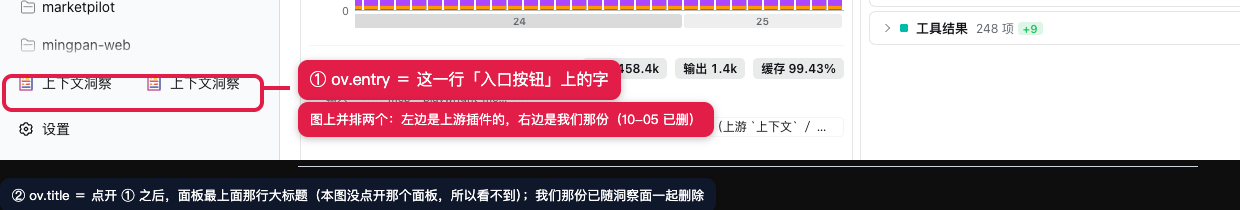
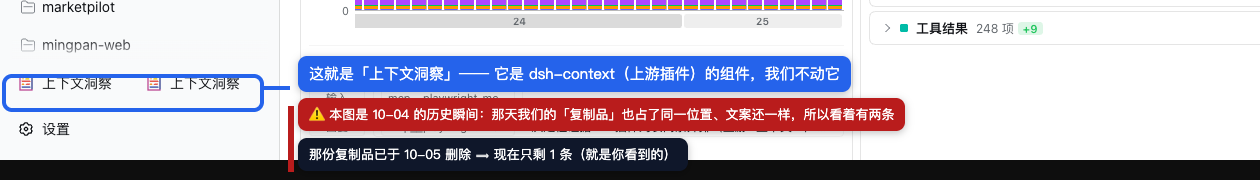
docs+img: 按用户二次指正收口「上下文洞察」话题 —— 那是 dsh-context 的组件，我们不动；ov.* 残留改为"保留不清理"
用户 2026-10-06 二次指正：「这个上下文洞察不是我们的组件内容，我已经强调过了，是 dsh-context 的。
不要动其他插件的东西。现在我看只有 1 个上下文洞察，没有 2 个。」—— 核实后确认用户对，并纠正我两处：

1) 位置与归属：`上下文洞察` 是**上游插件 dsh-context 自己注册的入口**（左侧栏最底部那一行）。
   我们的仓库里只有 M1 整仓复制来的**副本**；副本的那份入口已于 10-05 删除（`773aea6`，类名 `redline-ov-entry`，现全仓 0 个）。
   所以**现在只剩 1 个**（用户看到的就是对的）；10-04 那张存档截图之所以有两条，是因为那天副本也占了同一位置、
   文案还是继承来的 `上下文洞察`。**上游那个包我们一行都没动过**（只做过只读核对）。
2) 标注图更正（`docs/screenshots/ov-position-annotated.png`）：改成"这就是「上下文洞察」—— 它是 dsh-context 的组件，
   我们不动它 / ⚠ 本图是 10-04 历史瞬间：我们的复制品也占了同一位置、文案还一样 / 那份复制品已于 10-05 删除 ⟹ 现在只剩 1 条"。

3) `docs/10` M3-34 的注记按二次指正收口：**这条不再需要用户拍板** ——
   `ov.entry`/`ov.title` 不是功能，而是复制带进来的**一整坨 `ov.*` 文案（约 60 键 × 中英）**里的两条，
   随洞察面删除一起失效、现无任何界面引用；**处置 = 保留、不清理**（清理属副本残留，收益极低；
   且护栏面 5 的 `entryKeys` 仍要求这三键存在并锁其值）。并写明"上游包一行都不动"的界限。

`node scripts/check-docs.mjs` exit 0；本提交只动文档与标注图，未改任何代码。

diff --git a/docs/10-execution-checklist.md b/docs/10-execution-checklist.md
@@ -278,7 +278,7 @@
 | M3-30 | **不可编辑态 → 人话原因**（R2.3 / R4.7 汇总表的界面落点）：助手消息 / 被遮蔽原文 / 被压缩埋掉 / 系统提示词 / 工具定义 / 会话不在本进程 / 轮次未闭合 —— 每一态给出"原因 + 我该怎么办"，**能力为 false 时入口不出现**（不是禁用了还能点） | DONE | → **每一态都有人话**：助手消息 → `助手消息改不了`；被接替/被压缩 → 一句原因、零按钮；宿主保护的两类 → 不渲染动作区；**轮次未闭合 / 会话不在本进程 → 编辑器里写明句子并禁用 `保存`**（与 demo 的 `blocked`＝「轮次未闭合 或 不在本进程」逐字一致），且**主机侧同样拒绝**（`redline/turn-open` / `redline/not-live`）—— 界面禁用是体验，主机拒绝是安全网。护栏：`tests/edit/turn-state.spec.ts`（9 条纯函数）、`tests/channel/redline-ops.spec.ts`（`turnState` op + 两条拒绝 + "同一保存只因轮次闭合就通过"）、`tests/client-ui/redline-edit.spec.ts`（两种态各断言句子在 + `保存` 禁用 + 点了也不到存储）。**4 个变异反向验证**：边界判定写死已闭合 / 主机不拒 turn-open / 主机不拒 not-live / 界面不传 blocked —— 全部变红。⚠ 反向验证**抓到我自己一条空壳护栏**：`not-live` 那条一开始是"读不到也报 not-live"，把 liveness 判断删掉它照样绿 → 已改成用"**行可读但本进程不 host**"的会话隔离该判断。⚠ 已知简化：fold 用同一个 `gone` 同时表示"被改写过"与"被压缩埋掉"，所以两族说法还没分开（要分开得让 fold 暴露原因，不猜） ✅ **真机补证（2026-10-04）**：展开「助手消息」（该轮 291 项）→ **298 条动作条，带按钮的 0 条**，条上文案实测为 `#3417 助手消息改不了` ⟹ "改不了的行给一句人话、且点不到任何按钮"在真机上成立（R2.3 / R4.7） |
 | M3-31 | 【作废】~~**帮助入口**（R7.1 + D6 连带要求）：从不可用态与说明处可跳到「这一态是什么意思 / 我该怎么办」汇总表~~ —— **`docs/03` R7.1 自己写着**："当前 demo **没有**单独的总体「帮助」按钮或「指给我看」入口"，它的帮助形态是右上角**讲解模式**（给可交互元素编号 → 点开右侧讲解抽屉）。⟹ 按"demo 为准"，**不做**一个 demo 没有的总体帮助入口（那是新增交互）。**内容侧已经到位**：`docs/12-user-guide.md`（本轮写好）就是 R4.7 那张"这一态是什么意思 / 我该怎么办"的权威表，而界面里每个 `?` 与不可编辑行的 `title` 已经承担了就地说明。**若你要一个能从界面跳到 `docs/12` 的入口，那是新增交互，说一声我再做** | DONE | → 作废依据：`docs/03` R7.1 原文 + `docs/12` 已交付 |
 | M3-33 | **客户端通道**（M3 的前置）：`src/client/redlineChannel.ts` —— `node.read` / `draft.list` / `draft.update` / `draft.drop` 四个调用的浏览器侧封装；URL 必须 import `REDLINE_CHANNEL_ROUTE`（不许手写），**失败一律回稳定码、绝不抛**（编辑器才能"保留输入 + 显示原因"） | DONE | → 先红后绿：`tests/client-logic/redline-channel.spec.ts`（新 lane）8 条，写测试时模块不存在 → 全红；实现后 8/8。**顺带修掉一个真实隐患**：`src/client/{timelineSource,overview,balance}.ts` 原本**各手写一份** `/api/dsh-context-redline/*` 字面量（上游的设计）→ 常量一改就静默 404，已改为 import `src/shared/redline-route.ts` 的常量；`namespace-contract` 新增一条"客户端里一个 `/api` 字面量都没有"（反向验证：塞回一个字面量 → 立刻红，即使那个字面量是**对的**也红）`src/client/redlineChannel.ts`、`src/client/{timelineSource,overview,balance}.ts`、`tests/client-logic/**`、`vitest.config.ts`、`scripts/namespace-contract.mjs` |
-| M3-34 | **入口命名不与上游重名**（用户 2026-10-04：「在对话轨迹、上下文那里，我们不应该跟之前的插件重复，我们应该叫上下文批改」） ⚠ **2026-10-06 复核（更正我上一条说法）**：`ov.entry` / `ov.title` 目前**无人读**（侧栏入口已按 M3-35 删掉），但**不能当"死键"直接删** —— `scripts/namespace-contract.mjs` 面 5 的 `entryKeys = ['tab', 'ov.entry', 'ov.title']` **要求这三个键必须存在**，并锁它们的值不许等于上游裸词、必须带产品名；删键会让那条门禁红。⟹ 这是个**小决定**：(a) **保留**（护栏继续锁"入口文案带产品名"，将来再接入口时文案已就位）；(b) **删键 + 把护栏 `entryKeys` 收窄到 `['tab']`**（少两处死字符串，代价是失去"入口回来时必须带产品名"的保护）。| DONE | → 改的是**一个共用标签**：`src/client/i18n.ts` 的 `tab` 键（会话页签 / 右侧栏胶囊 / 面板标题三处都读它）→ zh `上下文批改`、en `Context Redline`；`locale/{zh,en}.json` 的展示名与描述同步（描述里**不写**上游包名，因为面 5 禁止）。**新增门禁**：`namespace-contract` 面 5 —— 入口标签**不许等于上游那两个裸词**，且必须带我们的产品名；**反向验证**：把标签改回 `上下文` → 立刻红（原文：`入口标签 "上下文" 与上游同名`）。连带：上游 `client` lane 里 8 处断言锁的是旧标签（`index`/`icon`/`sidebar`/`contextJump`）→ 一并更新为新标签；`tsdown` 已重打，**硬刷新即可看到** **2026-10-05 扩到全部"入口标签"**：除了会话页签，**侧栏入口按钮**（`ov.entry`）、**概览面板标题**（`ov.title`）与**设置页里那个开关的字段名**（`settings.insightsEntry`）原来都还叫 `上下文洞察` / `Context Insights`（继承上游、demo 里"洞察"出现 0 次 ⟹ 正是用户说的那种重名残留），已统一改为 **`上下文批改 · 洞察` / `Context Redline · Insights`**（设置字段名 → `上下文批改 · 洞察入口`）。**护栏扩到 4 个入口标签键**（`tab` / `ov.entry` / `ov.title` / `settings.insightsEntry`）：都必须带产品名，且不许等于上游裸词；**反向验证**：把 `ov.entry` 改回 `上下文洞察` → 立刻红。连带更新上游 3 个 spec 里 5 处锁旧标签的断言；`tsdown` 已重打 ✅ **真机复核（2026-10-05，未重启，仅新开一次页面加载）**：侧栏入口的 `.redline-ov-entry-label` 实测 `上下文批改 · 洞察`（`aria-label` 同值 ⟹ 无障碍名也对）；设置页里 `上下文批改 · 洞察入口` 在位、**旧的 `上下文洞察入口` 已完全消失**（同页还可见 `上下文批改 · 洞察` 与 `趋势图 · 默认粒度`） |
+| M3-34 | **入口命名不与上游重名**（用户 2026-10-04：「在对话轨迹、上下文那里，我们不应该跟之前的插件重复，我们应该叫上下文批改」） ⚠ **2026-10-06 结论（用户二次指正后收口）**：**这条不再需要用户拍板** —— `ov.entry` / `ov.title` 不是我们的功能，而是 **M1 整仓复制上游时带进来的一整坨 `ov.*` 文案（约 60 键 × 中英）** 里的两条；那坨文案随「洞察面」删除（`19c47c2` / `5a01be9` / `586f681` / `773aea6`）一起失效，现在**没有任何界面引用**。**处置：保留、不清理**（清它属于"副本残留清理"，收益极低；且 `scripts/namespace-contract.mjs` 面 5 的 `entryKeys = ['tab', 'ov.entry', 'ov.title']` 还要求这三键存在并锁其值）。**界限（用户两次强调）**：`上下文洞察` 是 **dsh-context（上游插件）自己的组件**，本仓库只有当年复制的副本；**上游那个包我们一行都不动**（历史上只做过只读核对）。真机上现在左侧栏底部只剩它那一个入口 ✓| DONE | → 改的是**一个共用标签**：`src/client/i18n.ts` 的 `tab` 键（会话页签 / 右侧栏胶囊 / 面板标题三处都读它）→ zh `上下文批改`、en `Context Redline`；`locale/{zh,en}.json` 的展示名与描述同步（描述里**不写**上游包名，因为面 5 禁止）。**新增门禁**：`namespace-contract` 面 5 —— 入口标签**不许等于上游那两个裸词**，且必须带我们的产品名；**反向验证**：把标签改回 `上下文` → 立刻红（原文：`入口标签 "上下文" 与上游同名`）。连带：上游 `client` lane 里 8 处断言锁的是旧标签（`index`/`icon`/`sidebar`/`contextJump`）→ 一并更新为新标签；`tsdown` 已重打，**硬刷新即可看到** **2026-10-05 扩到全部"入口标签"**：除了会话页签，**侧栏入口按钮**（`ov.entry`）、**概览面板标题**（`ov.title`）与**设置页里那个开关的字段名**（`settings.insightsEntry`）原来都还叫 `上下文洞察` / `Context Insights`（继承上游、demo 里"洞察"出现 0 次 ⟹ 正是用户说的那种重名残留），已统一改为 **`上下文批改 · 洞察` / `Context Redline · Insights`**（设置字段名 → `上下文批改 · 洞察入口`）。**护栏扩到 4 个入口标签键**（`tab` / `ov.entry` / `ov.title` / `settings.insightsEntry`）：都必须带产品名，且不许等于上游裸词；**反向验证**：把 `ov.entry` 改回 `上下文洞察` → 立刻红。连带更新上游 3 个 spec 里 5 处锁旧标签的断言；`tsdown` 已重打 ✅ **真机复核（2026-10-05，未重启，仅新开一次页面加载）**：侧栏入口的 `.redline-ov-entry-label` 实测 `上下文批改 · 洞察`（`aria-label` 同值 ⟹ 无障碍名也对）；设置页里 `上下文批改 · 洞察入口` 在位、**旧的 `上下文洞察入口` 已完全消失**（同页还可见 `上下文批改 · 洞察` 与 `趋势图 · 默认粒度`） |
 | M3-35 | **去掉左侧抽屉底部的入口**（用户 2026-10-05：「左侧抽屉的底部，我们不需要上下文批改的这个提示。可以去掉」） | DONE | → 去掉的是 `src/client/index.ts` 里 `sidebar.footer.action` 座位的注册（那枚 chip 就贴在左侧抽屉的 Settings 上方）。**真机复核**：`.redline-ov-entry-label` 与 `button.redline-ov-entry` **各 0 个**；左侧抽屉底部现在只剩 `… / 未分组 / 上下文洞察 / 设置`（那个 `上下文洞察` 是**上游插件自己的**，不是我们的）；会话页签 `对话 / 轨迹 / 上下文 / 上下文批改` 与面板照常工作（357 个卡片节点、统计读数在）。连带更新 `tests/client/index.spec.ts` 两条（原来钉的是"注册了底部入口"，现在钉"**不再注册**"与"overlay 仍在但默认关着"）；`tsdown` 已重打（`sidebar.footer.action` 在包里计数为 0）。⚠ **一条如实记录的遗留**：入口去掉后，**那个洞察 overlay 就没人能打开了**（今天它不可达）；`insightsEntry`（显示/隐藏）那个设置开关与 schema 字段也暂时留着 —— 两者都等一个决定：**这个跨会话洞察面板还要不要？** 要 → 给它接一个新的打开方式；不要 → 连 `overviewPanel` / `overviewStore` / `insightsEntry` 与 `.redline-ov-entry*` 的 CSS 一起删掉（我没擅自删，因为"要不要这个面板"是产品决定） ✅ **收尾完成（2026-10-05）**：`insightsEntry` 设置项**已从 6 个源文件与门禁里删净** —— `shared/types`（类型与字段）· 宿主 `settings`（schema）· 宿主 `config`（volatile 字段与导入）· 客户端 `settings`（接口/面/初值/同步/退化分支）· `settingsCard`（那一行 PrefRow）· `i18n`（两语言各 3 个键）· `namespace-contract` 的入口标签键表（4 → **3**）。测试按"**保留覆盖、改指等价载体**"处理：`settings.spec` 的三条（乐观回显 / 被拒回滚 / 无效值处理）改指 `defaultPlacement` / `defaultGranularity`，`settingsCard.spec` 行数 6 → 5 并整体前移索引，`host/config.spec` 的两条改指其它字段。CSS 侧的死样式（`.redline-ov-*` / `.redline-heat-*`）在下一步单独清理（有闭包门禁兜底） |
 | M3-36 | **面板卡片清单与 demo 对齐**（用户 2026-10-05 指出「和上下文一模一样」） | DONE | → 删掉 demo 没有的 **6 张上游卡**：插件信息 `<PluginInfo>` / Token 统计 `<StatsTokens>` / 耗时统计 `<StatsTiming>` / 当前上下文 `<CurrentComposition>`（含 `compositionCard` 的定义与布局用法）/ 文件活动 `<FileCard>` / Agent 网络 `<AgentGraph>`； 连带清掉因此不再使用的导入与变量，**每删一项用 `tsc` 做守卫、坏了立刻还回去**。 **同批重写** `tests/client/components/contextView.spec.ts`（24 条红 → 全绿）：删掉专测两张已删卡的 describe、 把「卡在不在」的断言从「在」改成「不在」、去掉被删卡的内容断言、并把那条「跳转揭示当前上下文卡」的位移断言如实从 392 改成 42。 **新增门禁** `tests/client-ui/panel-cards.spec.ts`（我们自己的 lane）：demo 没有的六张卡一个都不许出现、demo 的前四张必须在（第 5 张【子会话】随 M5 落地）。**真机复核**：`.redline-card` 计数 **10 → 4**，标题 = 上下文统计 / 上下文趋势 / 上下文浏览器 / 上下文事件 |
 | M3-32 | **作废批次说明**（M3-01/04/05/07/08/09/11/12/13/18/19/20）：这些行写于 2026-10-01，随后被用户删除或移阶段 —— `docs/11` **D10**（冻结）、**D14**（固定块/漂移/重注入/压缩）、**D15**（所有保存都是临时保存 ⟹ 没有 apply/未生效吸顶）、**D18**（批注）、**D19**（行上只有「编辑」+ 无版本历史）、**D22**（步卡片整张删除）；团队与压缩属 **M5** | DONE | → `docs/11` D10/D14/D15/D18/D19/D22（不写代码） |
